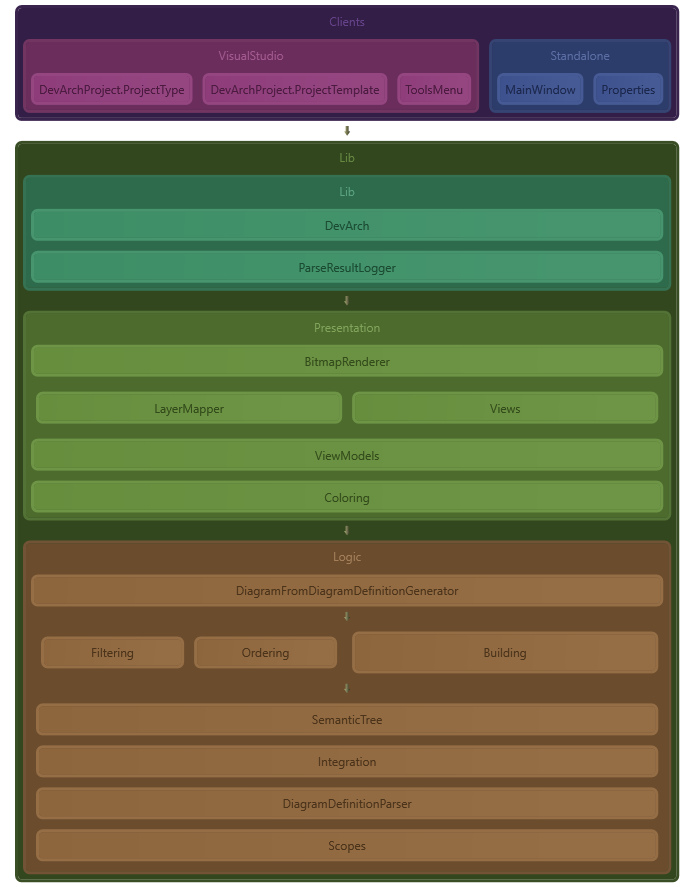
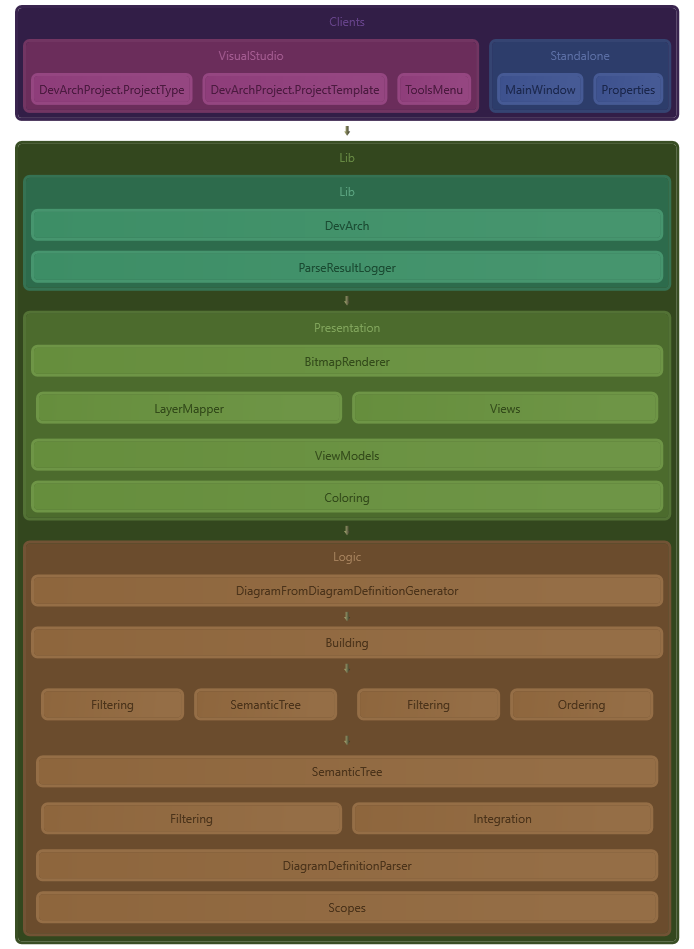
Fixed freeze bug caused by infinitely recursing indirect dependencies

diff --git a/Lib/Logic/Ordering/SiblingReorderer.cs b/Lib/Logic/Ordering/SiblingReorderer.cs
@@ -37,11 +37,13 @@ namespace Logic.Ordering
 
         public static List<Node> GetFacadeNodes(ISet<Node> targets)
         {
+            if(!targets.Any())
+                return new List<Node>();
             var allDependencies = targets.SiblingDependencies().ToList();
             var noOneDependantOn =  targets.Where(n => !allDependencies.Contains(n)).ToList();
             if (noOneDependantOn.Any())
                 return noOneDependantOn;
-            var indirectDepsCount = targets.ToDictionary(x => x, x => x.IndirectSiblingDependencies().Count());
+            var indirectDepsCount = targets.ToDictionary(x => x, x => x.IndirectSiblingDependencies.Count());
             var maxDeps = indirectDepsCount.Values.Max();
             return targets.Where(x => indirectDepsCount[x] == maxDeps).ToList();
         }
@@ -51,7 +53,6 @@ namespace Logic.Ordering
         {
             if (toBeGrouped.Count <= 1)
                 return toBeGrouped.ToList();
-
             var groupedNodes = new List<Node>();
             var hasBeenAdded = new HashSet<Node>();
             var nextGroupTarget = toBeGrouped;
@@ -112,12 +113,12 @@ namespace Logic.Ordering
                                     var newList = new List<Node> {depNode, referenceNode};
                                     //Get ALL the possible candidates for the vertical layer
                                     var verticalCandidates =
-                                        referencers.SelectMany(x => x.IndirectSiblingDependencies())
+                                        referencers.SelectMany(x => x.IndirectSiblingDependencies)
                                             .Except(dependants)
                                             .Union(
-                                                dependants.SelectMany(x => x.IndirectSiblingDependencies()))
+                                                dependants.SelectMany(x => x.IndirectSiblingDependencies))
                                             .Distinct()
-                                            .Except(hasBeenAdded)
+                                            .Except(hasBeenAdded).Intersect(toBeGrouped)
                                             .ToHashSet();
 
                                     //Get all the nodes in this current call depth
@@ -129,7 +130,6 @@ namespace Logic.Ordering
                                             .Union(nodesInOtherGroups)
                                             .Except(verticalCandidates)
                                             .ToHashSet();
-
 
                                     var siblingDepsRelevantForNewNode = new HashSet<Node>();
                                     //If any of the other nodes depends on the vertical candidate the candidate is removed and will be placed in a later iteration of this call (it is still left in toBeGrouped)

diff --git a/Tests/Units/Logic/AnalyserTests.cs b/Tests/Units/Logic/AnalyserTests.cs
@@ -59,7 +59,6 @@ namespace Tests.Units.Logic
             Assert.IsNotNull(newA.SiblingDependencies.WithName("B"));
         }
 
-
         [TestCategory("IndirectSiblingDependencies")]
         [TestMethod]
         public void FindsIndirectSiblingDependencies()
@@ -69,14 +68,12 @@ namespace Tests.Units.Logic
             B -> C
             C -> D
             D ->            
-            ").AddToRoot();
-
-            ModelFilterer.FindIndirectSiblingDeps(root);
-
-            var A = root.Childs.WithName("A");
-            var B = root.Childs.WithName("B");
-            var C = root.Childs.WithName("C");
-            var D = root.Childs.WithName("D");
+            ");
+            
+            var A = root.WithName("A");
+            var B = root.WithName("B");
+            var C = root.WithName("C");
+            var D = root.WithName("D");
 
             Assert.IsTrue(A.IndirectSiblingDependencies.SetEquals(new HashSet<Node>{
                 B,C,D
@@ -95,18 +92,17 @@ namespace Tests.Units.Logic
         [TestMethod]
         public void CirclularDepsDoesNotCauseIndirectSiblingCalcToHang()
         {
-            var root = OrderingTestFactory.CreateNodeList(@"
+            var nodes = OrderingTestFactory.CreateNodeList(@"
             A -> B
             B -> C
             C -> D
             D -> C
-            ").AddToRoot();
-
-            ModelFilterer.FindIndirectSiblingDeps(root);
-            var A = root.Childs.WithName("A");
-            var B = root.Childs.WithName("B");
-            var C = root.Childs.WithName("C");
-            var D = root.Childs.WithName("D");
+            ");
+            
+            var A = nodes.WithName("A");
+            var B = nodes.WithName("B");
+            var C = nodes.WithName("C");
+            var D = nodes.WithName("D");
 
             Assert.IsTrue(A.IndirectSiblingDependencies.SetEquals(new HashSet<Node>{
                 B,C,D
@@ -129,16 +125,15 @@ namespace Tests.Units.Logic
         [TestMethod]
         public void LongCircularReferences()
         {
-            var root = OrderingTestFactory.CreateNodeList(@"
+            var nodes = OrderingTestFactory.CreateNodeList(@"
             A -> B
             B -> C
             C -> A
-            ").AddToRoot();
+            ");
 
-            ModelFilterer.FindIndirectSiblingDeps(root);
-            var A = root.Childs.WithName("A");
-            var B = root.Childs.WithName("B");
-            var C = root.Childs.WithName("C");
+            var A = nodes.WithName("A");
+            var B = nodes.WithName("B");
+            var C = nodes.WithName("C");
             
             Assert.IsTrue(A.IndirectSiblingDependencies.SetEquals(new HashSet<Node>{
                 B,C

diff --git a/Lib/Logic/Filtering/IndirectSiblingBuilder.cs b/Lib/Logic/Filtering/IndirectSiblingBuilder.cs
@@ -6,39 +6,42 @@ using MoreLinq;
 
 namespace Logic.Filtering
 {
-    public class IndirectSiblingBuilder
+    public class IndirectSiblingBuilderAsync
     {
         readonly Dictionary<Node, Task<HashSet<Node>>> _indirectSiblingDeps = new Dictionary<Node, Task<HashSet<Node>>>();
 
-        public IndirectSiblingBuilder(IEnumerable<Node> toBuildDepsFor)
+        public IndirectSiblingBuilderAsync(IEnumerable<Node> toBuildDepsFor)
         {
             foreach (var node in toBuildDepsFor)
             {
                 _indirectSiblingDeps[node] = BuildDepsForAsync(node);
             }
         }
-
-        public void Build()
-        {
-            foreach (var pair in _indirectSiblingDeps)
-            {
-                pair.Key.IndirectSiblingDependencies = pair.Value.Result;
-            }
-        }
-
-        private async Task<HashSet<Node>> BuildDepsForAsync(Node n,Node exclude = null)
+        
+        private async Task<HashSet<Node>> BuildDepsForAsync(Node n, Node exclude = null)
         {
             var sibDeps = n.SiblingDependencies.Where(dependency => dependency != exclude).ToHashSet();
             foreach (var dependency in sibDeps.ToHashSet())
             {
-                if(!_indirectSiblingDeps.ContainsKey(dependency))
-                    sibDeps.UnionWith(await BuildDepsForAsync(dependency,n));
+                if (!_indirectSiblingDeps.ContainsKey(dependency))
+                    sibDeps.UnionWith(await BuildDepsForAsync(dependency, n));
                 else
                     sibDeps.UnionWith((await _indirectSiblingDeps[dependency]).Where(x => x != n));
             }
             return sibDeps;
         }
+        public void Build()
+        {
+            foreach (var pair in _indirectSiblingDeps)
+            {
+                //pair.Key.IndirectSiblingDependencies = pair.Value.Result;
+            }
+        }
+    }
 
+
+    public class IndirectSiblingBuilder
+    {
         public static HashSet<Node> BuildDepsFor(Node n, ISet<Node> exclude = null)
         {
             if (exclude == null)
@@ -53,7 +56,15 @@ namespace Logic.Filtering
             return sibDeps;
         }
 
-        /*public static void FindIndirectSiblingDeps(Node node)
+        public static void BuildDepsFor(IEnumerable<Node> nodes)
+        {
+            foreach (var node in nodes)
+            {
+                //node.IndirectSiblingDependencies = BuildDepsFor(node);
+            }
+        }
+
+        /*public static void FindIndirectSiblingDependencies(Node node)
             {
                 //var builder = new IndirectSiblingBuilder(node.DescendantNodes().ToHashSet());
                 //builder.Build();

diff --git a/Lib/Logic/SemanticTree/Node.cs b/Lib/Logic/SemanticTree/Node.cs
@@ -1,11 +1,14 @@
+using System;
 using System.Collections.Generic;
 using System.Linq;
 using System.Threading.Tasks;
 using EnvDTE;
+using Logic.Filtering;
 using Logic.Integration;
 using Microsoft.CodeAnalysis;
 using Microsoft.CodeAnalysis.CSharp.Syntax;
 using Microsoft.CodeAnalysis.FindSymbols;
+using MoreLinq;
 using Document = Microsoft.CodeAnalysis.Document;
 using Project = Microsoft.CodeAnalysis.Project;
 
@@ -31,9 +34,10 @@ namespace Logic.SemanticTree
         public Node Parent;
         public OrientationKind Orientation = OrientationKind.Vertical;
 
-        public HashSet<Node> IndirectSiblingDependencies = null;
-
-        //public Task<HashSet<Node>> IndirectSiblingDependencies = null; 
+        public HashSet<Node> IndirectSiblingDependencies => IndirectSiblingBuilder.BuildDepsFor(this);
+        
+        //TODO:
+        //_indirectSiblingDependencies ?? (_indirectSiblingDependencies = IndirectSiblingBuilder.BuildDepsFor(this));//IndirectSiblingBuilder.BuildDepsFor(this));
 
         private List<Node> ChildsList { get; } = new List<Node>();
         public IReadOnlyList<Node> Childs => ChildsList;

diff --git a/Lib/Logic/SemanticTree/NodeExtensions.cs b/Lib/Logic/SemanticTree/NodeExtensions.cs
@@ -28,9 +28,9 @@ namespace Logic.SemanticTree
             return node.SiblingDependencies.Contains(dependency);
         }
 
-        public static bool IndirectlyDependsOn(this Node node,Node Dependency)
+        public static bool IndirectlyDependsOn(this Node node,Node dependency)
         {
-            return node.IndirectSiblingDependencies().Contains(Dependency);
+            return node.IndirectSiblingDependencies.Contains(dependency);
         }
 
         /*public static int TotalReferences(this IEnumerable<Node> nodes)
@@ -79,7 +79,7 @@ namespace Logic.SemanticTree
             }
         }
 
-        public static IEnumerable<Node> IndirectSiblingDependencies(this Node tree)
+        /*public static IEnumerable<Node> IndirectSiblingDependencies(this Node tree)
         {
             foreach (var dependency in tree.SiblingDependencies)
             {
@@ -89,6 +89,6 @@ namespace Logic.SemanticTree
                     yield return dependenciesOfDependency;
                 }
             }
-        }
+        }*/
     }
 }

diff --git a/Tests/OrderingTestFactory.cs b/Tests/OrderingTestFactory.cs
@@ -3,6 +3,7 @@ using System.Collections.Generic;
 using System.Collections.Immutable;
 using System.Linq;
 using System.Text.RegularExpressions;
+using Logic.Filtering;
 using Logic.SemanticTree;
 using Microsoft.VisualStudio.TestTools.UnitTesting;
 using static System.String;
@@ -40,8 +41,9 @@ namespace Tests
                 }
                 i++;
             }
-                
-            return new HashSet<Node>(nodes);
+
+            var nodeSet = new HashSet<Node>(nodes);
+            return nodeSet;
         }
 
         public static void AssertLayout(Node expected, Node actual)

diff --git a/Tests/Units/Logic/Ordering/Scenarios.cs b/Tests/Units/Logic/Ordering/Scenarios.cs
@@ -1,4 +1,5 @@
-using System.Linq;
+using System;
+using System.Linq;
 using Logic;
 using Logic.Filtering;
 using Logic.Ordering;
@@ -8,6 +9,7 @@ using Presentation;
 
 namespace Tests.Units.Logic.Ordering
 {
+
     [TestClass]
     public class Scenarios
     {
@@ -48,6 +50,7 @@ namespace Tests.Units.Logic.Ordering
             BitmapRenderer.RenderTreeToBitmap(tree, true, new OutputSettings {Path= TestExtesions.SlnDir + "SEM.png"},false);
         }
 
+        
         [TestCategory("Scenarios")]
         [TestMethod]
         public void CmdModel1()

diff --git a/Lib/Logic/Filtering/ModelFilterer.cs b/Lib/Logic/Filtering/ModelFilterer.cs
@@ -121,14 +121,6 @@ namespace Logic.Filtering
             }
         }
 
-        public static void FindIndirectSiblingDeps(Node node)
-        {
-            foreach (var descendantNode in node.DescendantNodes())
-            {
-                descendantNode.IndirectSiblingDependencies = IndirectSiblingBuilder.BuildDepsFor(descendantNode);
-            }
-        }
-
 
         public static void RemoveNodesWithMoreDepthThan(Node tree, int maxDepth, int currDepth = -1)
         {
